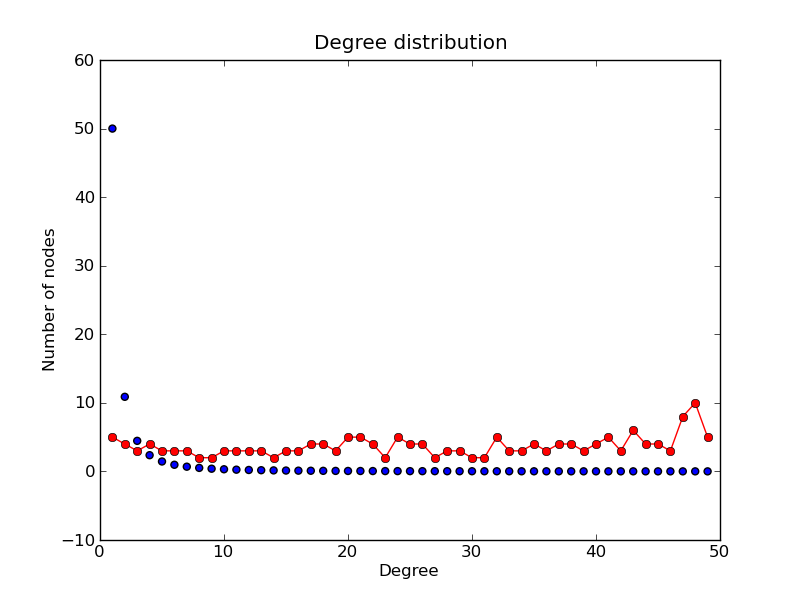
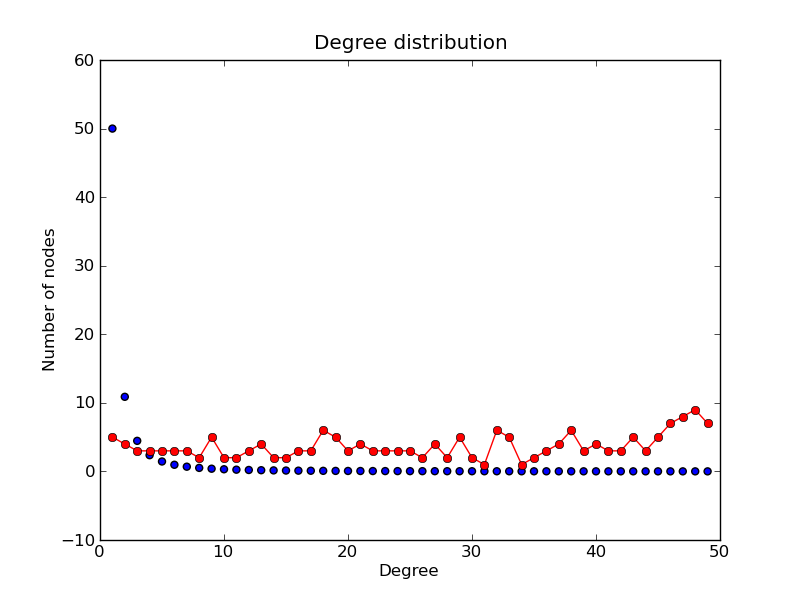
Pas de robustesse

Changed region(s): [[0.25, 0.66, 0.9062, 0.78], [0.1562, 0.72, 0.2188, 0.75]]

diff --git a/Algo/CGraph.py b/Algo/CGraph.py
@@ -39,6 +39,8 @@ class CGraph:
             li.insert(0,0)
             self.genome += li
 
+        self.createGraph()
+
 
 
     def fit2distri(self):
@@ -46,37 +48,40 @@ class CGraph:
     Compris entre 0 et 1 """
 
         ThDistrib = [] # Distribution theorique
+        connexions = self.graph.degree().values()
+        deg = range(max(connexions))
+        eff = [connexions.count(x) for x in range(max(connexions))]
+
         
-        for x in self.graph.degree().keys():
+
+        for x in deg: # No des noeuds
             if x!=0:
                 ThDistrib.append(self.nbNodes*x**(-2.2))
         res = 0      
         for i in range(len(ThDistrib)):
-            d = abs(self.graph.degree(i+1) - ThDistrib[i])
+            d = abs(eff[i+1] - ThDistrib[i])
             res += d/(d+ThDistrib[i])            
 
         # TMP
-        Deg = self.graph.degree().keys()
-        Val = self.graph.degree().values()
-        plt.figure()
-        plt.plot(Deg[1:],Val[1:],'ro-') #in-degree
-        plt.xlabel('Degree')
-        plt.ylabel('Number of nodes')
-        plt.title('Degree distribution')
+        # Deg = self.graph.degree().keys()
+        # Val = self.graph.degree().values()
+        # plt.figure()
+        # plt.plot(Deg[1:],Val[1:],'ro-') #in-degree
+        # plt.xlabel('Degree')
+        # plt.ylabel('Number of nodes')
+        # plt.title('Degree distribution')
 
-        for x in Deg:
-                if x!=0:
-                        plt.scatter(x,self.nbNodes*x**(-2.2),c="blue")
+        # for x in Deg:
+        #         if x!=0:
+        #                 plt.scatter(x,self.nbNodes*x**(-2.2),c="blue")
 
-        plt.savefig('DegreeDistrib.png')
-        plt.close()
+        # plt.savefig('DegreeDistrib.png')
+        # plt.close()
 
         # ATTENTION : lorsqu'on converge vers un scale-free: queue de distrib
         # tendant vers 0 : avg_res tend vers 1 !
         return res/self.nbNodes
     
-
-
 
     def clustering(self):
         """ Renvoie le coeff de clustering moyen """
@@ -88,7 +93,7 @@ class CGraph:
         return abs((nx.average_shortest_path_length(self.graph)-2.5)/(nx.average_shortest_path_length(self.graph)))
                                                                   
     def fitness(self,a,b,c):
-        return (a*self.fit2distrib() + b*self.clustering() + c*self.smallWorld())/(a+b+c)
+        return (a*self.fit2distri() + b*self.clustering() + c*self.smallWorld())/(a+b+c)
 
     def genome2adj(self):
          """ Remplissage et creation de la matrice d'adjacence """
@@ -104,7 +109,7 @@ class CGraph:
 
          return Adj
 
-    def drawGraph(self): 
+    def createGraph(self):
         """ Creation du graphe a partir de la matrice d'adjacence """	
         self.graph = nx.Graph()
         Adj = self.genome2adj()
@@ -116,14 +121,51 @@ class CGraph:
                     if Adj[i,j]==1:	
                         self.graph.add_edge(i,j)	# Ajout des aretes
 
+    def drawGraph(self): 
+
         nx.draw(self.graph)
         plt.savefig("Graph.png")
+        plt.close()
+        print self.graph.degree()
+        print self.graph.degree().keys()
+        print self.graph.degree().values()
+        print self.genome2adj()
+    
+    # A REVOIR PLUS TARD, SI LE TEMPS
+    # def robustness(self):
+    #     """ On pete un a un les noeuds du graphe en constatant l'effet sur la fitness.
+    #     On compte mesurer le nombre de noeuds d'importance sur la fitness """
+    #     save = self.graph
+    #     Fit = []
+    #     Nodes = range(self.nbNodes)
+        
+    #     # Fitness apres modifs pr chaque noeud
+    #     for n in range(len(save.nodes())):
+    #         self.graph.remove_node(n)
+    #         self.nbNodes -= 1
+    #         Fit.append(self.fitness(a,b,c))
+    #         print Fit
+    #         self.graph = save
+    #         self.nbNodes += 1
 
+    #     plt.grid()
+        
+    #     plt.plot(Nodes,[self.fitness(a,b,c)]*self.nbNodes,'--',c="blue")
+    #     plt.scatter(Nodes, Fit, c="red")
+    #     plt.savefig('Rob.png')
+    #     plt.close()
 
         
+            
+            
 
+
+# passer en self ?
+a = 0.3
+b = 0.45
+c = 0.25 #Valeurs WTF
 
 G = CGraph(50)
 G.drawGraph()
-G.fit2distri()
-G.clustering()
+print G.fitness(a,b,c)
+

diff --git a/Algo/AG.py b/Algo/AG.py
@@ -1,0 +1,132 @@
+# -*- coding: utf-8 -*-
+from numpy import *
+from math import *
+
+
+#Classe Test
+class pyRW :
+    
+    def __init__(self,T,gen=None):
+
+        if gen is not None:
+            self.genome = gen[:]
+            self.T = len(gen)
+            #print self.genome
+        else:
+            self.T = T
+            self.genome = random.randint(0,2,WALKTIME) #Sup value exluded
+
+    def Fitness(self,t,r):
+    #Renvoie la fitness d'un individu
+        Fit, X = 0, 0
+        for i in self.genome[t:]:
+            X += 2*i-1
+            if abs(X) > r:
+                Fit += 1
+        return Fit
+
+#Veritable algorithme génétique            
+class pyAG :
+    
+    def __init__(self,N,Mut,Cross,T,r,t):
+        self.N = N
+        self.MutRate = Mut
+        self.CrossOver = Cross
+        self.T = T
+        self.r = r
+        self.t = t
+
+    def CreatePop(self):
+        #Crée une population d'individus pyRW
+        self.Pop = []
+        for i in range(self.N):
+            self.Pop.append(pyRW(self.T))
+        return self.Pop
+
+    def CalcFitness(self):
+        #Renvoie une liste (triée par fitness) des fitness des individus de la population
+        self.Fit = []
+        for individu in self.Pop:
+            self.Fit.append((individu.Fitness(self.r, self.t),self.Pop.index(individu)))
+        self.Fit.sort()
+        return self.Fit
+    
+    def FitMin(self):
+        self.FitMin = self.Fit[0][0]
+        return self.FitMin
+    
+    def FitMean(self):
+        S = 0
+        for i in self.Fit:
+            S += i[0]
+        self.FitMean = S/len(self.Fit)
+        return self.FitMean
+    
+    def Rank(self, p):
+        i,s = 0, 0
+        while s < p:
+            s+= self.N-i
+            i += 1
+        #retourne le rang de l'individu à la position p
+        return i
+
+    def Newpop(self):
+        self.newpop = []
+        Fit = self.CalcFitness()
+        for i in range(self.N):
+            p = random.randint(0,(self.N*(self.N+1))/2)
+            i = self.Rank(p)
+            s = self.Pop[Fit[i][1]].genome
+            self.newpop.append(pyRW(self.T,gen=s))
+        
+    def Mutation(self):
+        for indiv in self.newpop:
+            gen = indiv.genome
+            for i in range(len(gen)):
+                if random.random() < self.MutRate:
+                    gen[i] = 1 - gen[i] #Mutation : si 1 -> 1 -1 = 0, si O-> 1-0 = 1
+                
+    def CrossingOver(self):
+        for i in self.newpop:
+            if random.random() < self.CrossOver:
+                gen = i.genome
+                target = self.newpop[random.randint(0,self.N-1)].genome
+                lim = random.randint(1,len(gen)-1)
+                if random.random() < 0.5:
+                    #Quelle partie du génome a partir de la limite ?
+                    gen[0:lim] = target[0:lim]
+                else:
+                    gen[lim:] = target[lim:]
+                i.genome = gen
+                    
+    def Update(self):
+        self.Pop = self.newpop[:]
+
+    def Loop(self):
+	self.CalcFitness()
+	self.Newpop()
+	self.Mutation()
+	self.CrossingOver()
+	self.Update()
+        self.FitMean()
+        self.FitMin()
+        print "Minimal Fitness : {0}\nMean Fitness    : {1}".format(self.FitMin, self.FitMean)
+        
+                                 
+#MAIN
+WALKTIME = 30 #Longueur du génome
+#param de fenetres
+t0 = 2
+r0 = 3
+
+#taux
+Mut = 0.3
+CrossOver = 0.4
+
+#----------#
+
+Test = pyAG(2,Mut,CrossOver,WALKTIME,r0,t0)
+Test.CreatePop()
+Test.Loop()
+
+#Il faut maintenant utiliser l'algo sur plusieurs generations

diff --git a/Algo/pyAG.py b/Algo/pyAG.py
@@ -34,6 +34,7 @@ class pyAG:
 	self.prod=prod
 	self.pop=[prod() for i in range(N)]
 	self.gen = 0
+
     def calc_fitness(self):
 	self.f=[]
 	self.fitm=0
